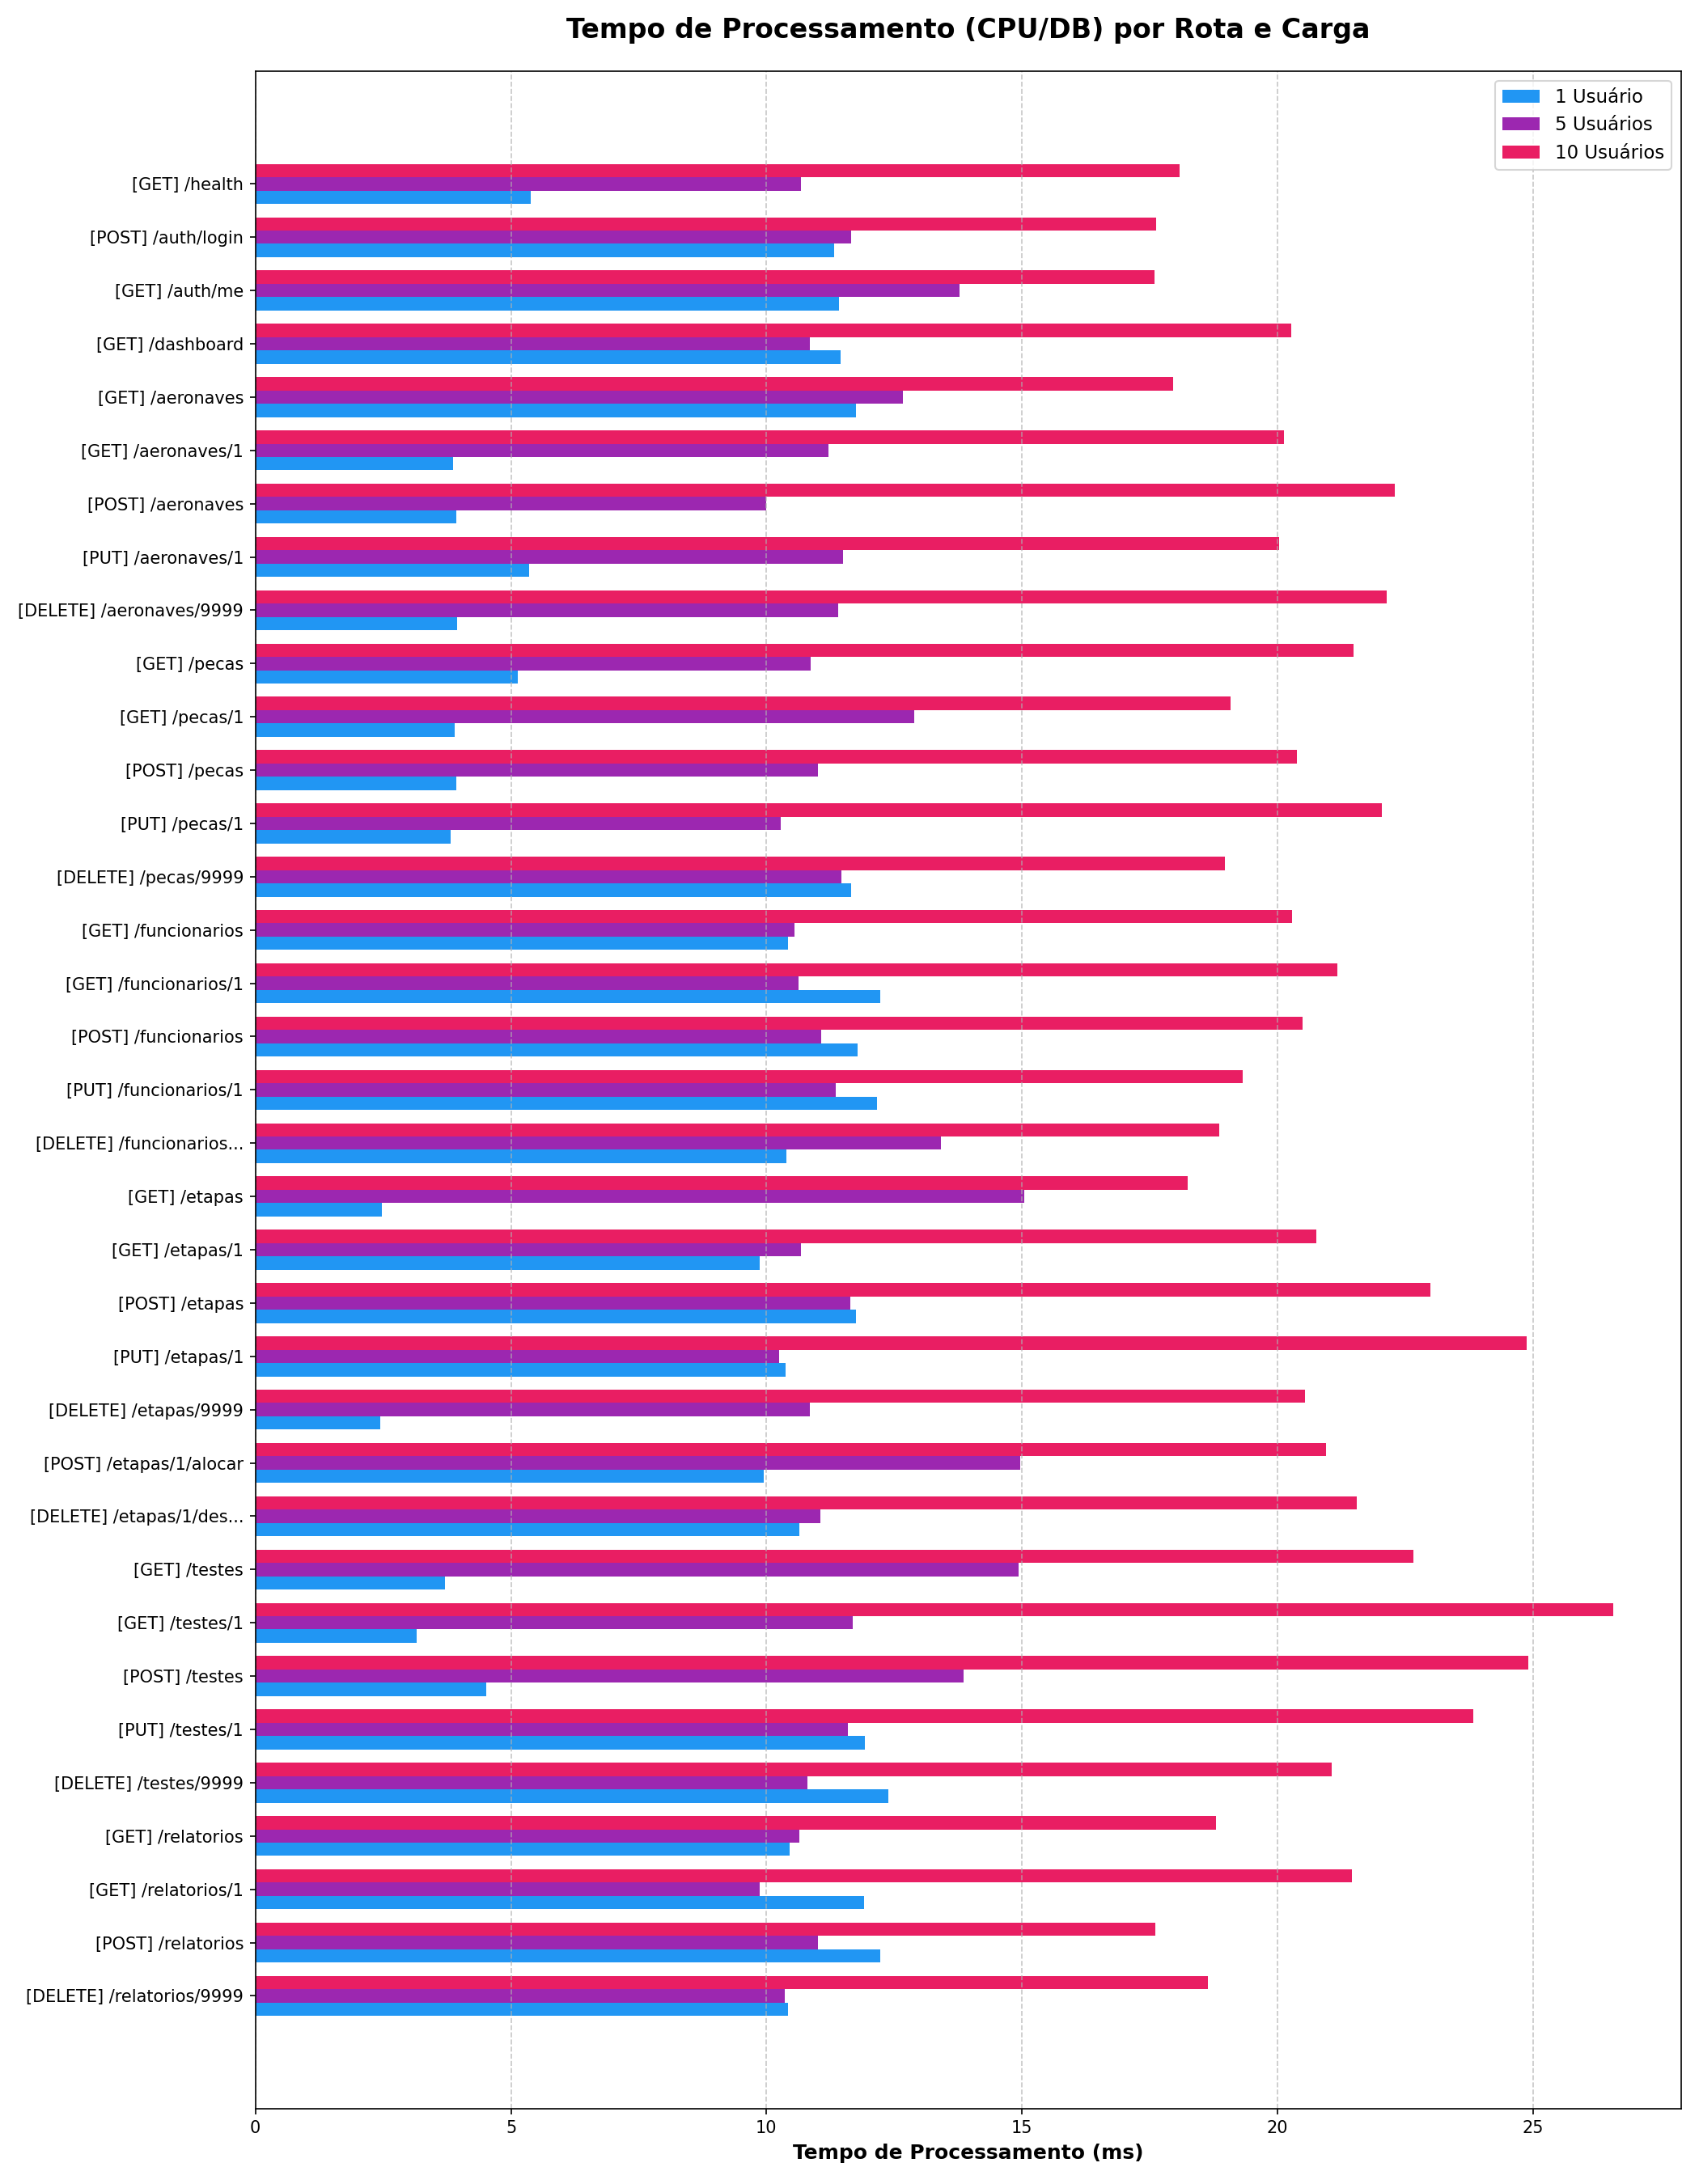
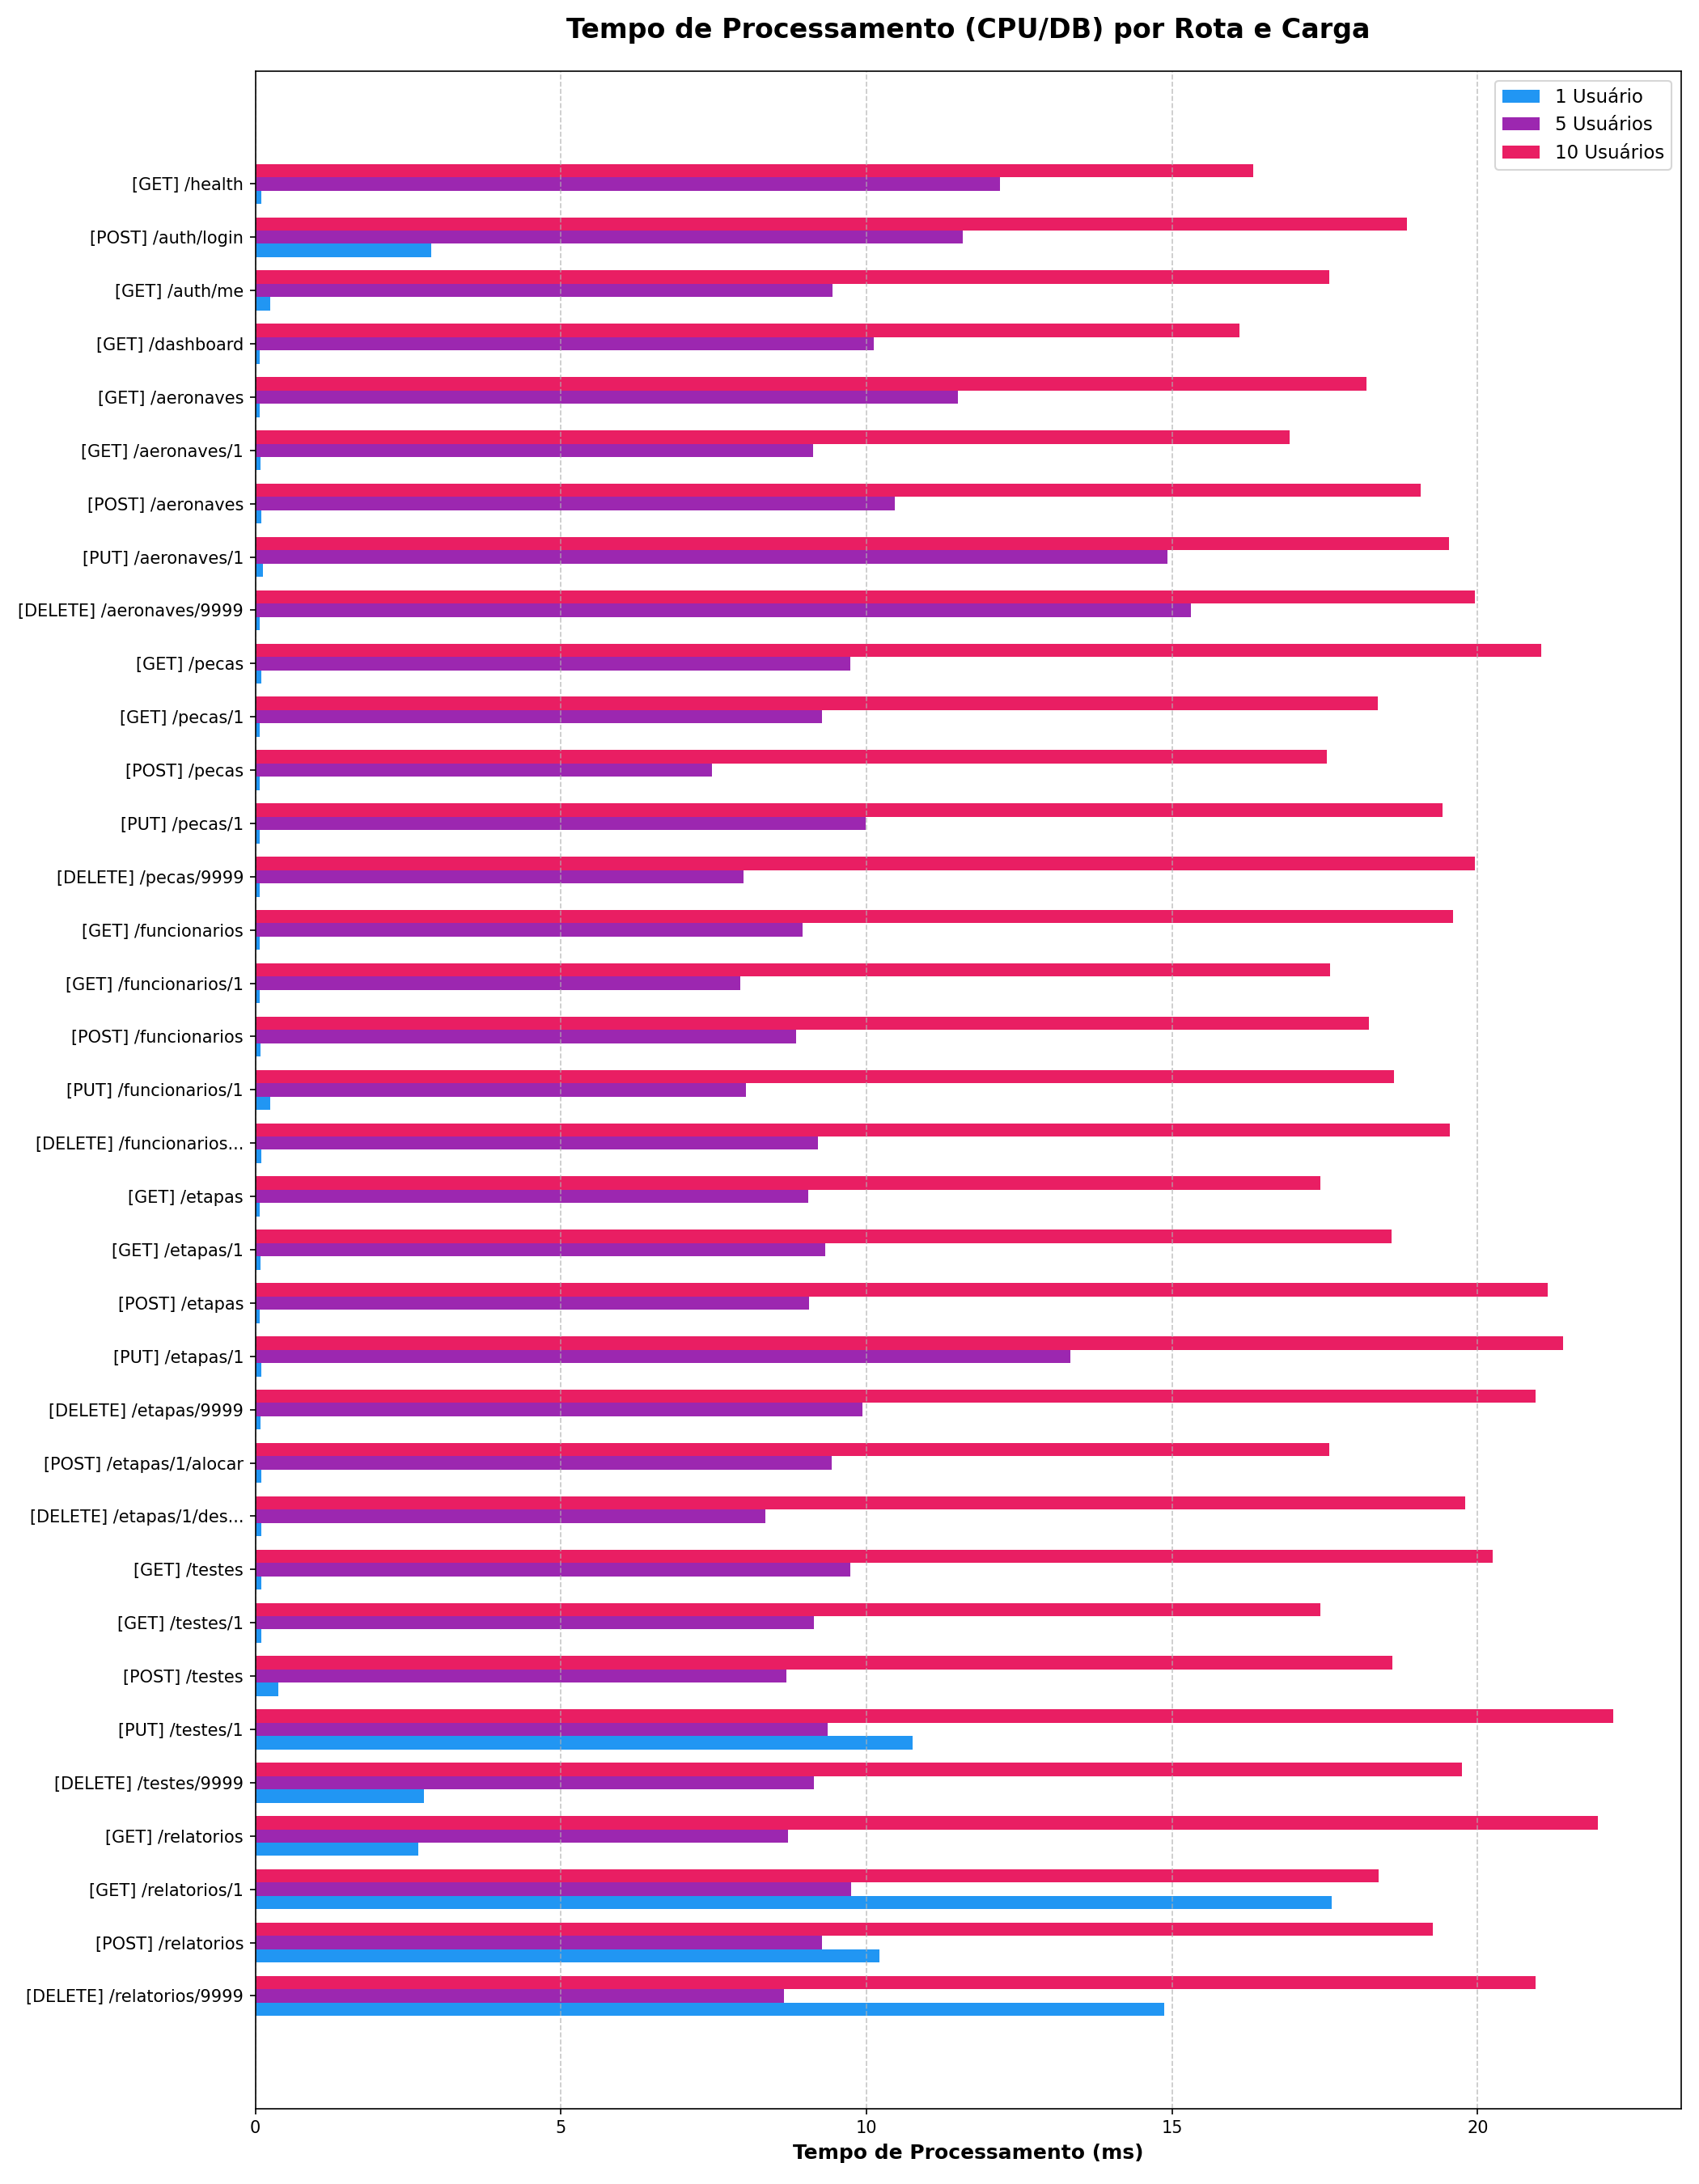
docs: gráficos horizontais, 35 rotas e tabelas atualizadas

diff --git a/docs/resultados_texto.md b/docs/resultados_texto.md
@@ -4,119 +4,119 @@
 
 | Rota | 1 Usuário (ms) | 5 Usuários (ms) | 10 Usuários (ms) |
 |---|---|---|---|
-| [GET] /health | 2.31 | 4.58 | 7.75 |
-| [POST] /auth/login | 4.85 | 5.00 | 7.55 |
-| [GET] /auth/me | 4.89 | 5.90 | 7.54 |
-| [GET] /dashboard | 4.91 | 4.65 | 8.69 |
-| [GET] /aeronaves | 5.04 | 5.43 | 7.70 |
-| [GET] /aeronaves/1 | 1.66 | 4.81 | 8.62 |
-| [POST] /aeronaves | 1.69 | 4.29 | 9.56 |
-| [PUT] /aeronaves/1 | 2.29 | 4.93 | 8.58 |
-| [DELETE] /aeronaves/9999 | 1.69 | 4.88 | 9.49 |
-| [GET] /pecas | 2.20 | 4.65 | 9.21 |
-| [GET] /pecas/1 | 1.67 | 5.53 | 8.18 |
-| [POST] /pecas | 1.68 | 4.72 | 8.74 |
-| [PUT] /pecas/1 | 1.64 | 4.41 | 9.44 |
-| [DELETE] /pecas/9999 | 5.00 | 4.91 | 8.13 |
-| [GET] /funcionarios | 4.47 | 4.52 | 8.70 |
-| [GET] /funcionarios/1 | 5.24 | 4.56 | 9.08 |
-| [POST] /funcionarios | 5.05 | 4.74 | 8.78 |
-| [PUT] /funcionarios/1 | 5.22 | 4.87 | 8.28 |
-| [DELETE] /funcionarios... | 4.46 | 5.75 | 8.08 |
-| [GET] /etapas | 1.06 | 6.45 | 7.82 |
-| [GET] /etapas/1 | 4.23 | 4.58 | 8.90 |
-| [POST] /etapas | 5.03 | 4.99 | 9.86 |
-| [PUT] /etapas/1 | 4.45 | 4.39 | 10.66 |
-| [DELETE] /etapas/9999 | 1.05 | 4.65 | 8.80 |
-| [POST] /etapas/1/alocar | 4.26 | 6.42 | 8.98 |
-| [DELETE] /etapas/1/des... | 4.56 | 4.74 | 9.24 |
-| [GET] /testes | 1.59 | 6.40 | 9.71 |
-| [GET] /testes/1 | 1.35 | 5.01 | 11.38 |
-| [POST] /testes | 1.93 | 5.94 | 10.67 |
-| [PUT] /testes/1 | 5.11 | 4.97 | 10.21 |
-| [DELETE] /testes/9999 | 5.31 | 4.63 | 9.02 |
-| [GET] /relatorios | 4.48 | 4.56 | 8.05 |
-| [GET] /relatorios/1 | 5.10 | 4.23 | 9.20 |
-| [POST] /relatorios | 5.24 | 4.72 | 7.55 |
-| [DELETE] /relatorios/9999 | 4.47 | 4.44 | 7.99 |
+| [GET] /health | 4.79 | 5.22 | 7.00 |
+| [POST] /auth/login | 30.72 | 4.96 | 8.08 |
+| [GET] /auth/me | 4.51 | 4.04 | 7.53 |
+| [GET] /dashboard | 3.80 | 4.34 | 6.90 |
+| [GET] /aeronaves | 4.02 | 4.93 | 7.79 |
+| [GET] /aeronaves/1 | 5.40 | 3.91 | 7.25 |
+| [POST] /aeronaves | 23.43 | 4.48 | 8.17 |
+| [PUT] /aeronaves/1 | 16.07 | 6.40 | 8.37 |
+| [DELETE] /aeronaves/9999 | 4.96 | 6.56 | 8.55 |
+| [GET] /pecas | 4.14 | 4.17 | 9.02 |
+| [GET] /pecas/1 | 5.10 | 3.97 | 7.87 |
+| [POST] /pecas | 22.55 | 3.20 | 7.51 |
+| [PUT] /pecas/1 | 15.03 | 4.28 | 8.32 |
+| [DELETE] /pecas/9999 | 14.99 | 3.42 | 8.55 |
+| [GET] /funcionarios | 3.62 | 3.84 | 8.40 |
+| [GET] /funcionarios/1 | 17.48 | 3.40 | 7.54 |
+| [POST] /funcionarios | 21.27 | 3.79 | 7.81 |
+| [PUT] /funcionarios/1 | 17.33 | 3.44 | 7.98 |
+| [DELETE] /funcionarios... | 30.75 | 3.94 | 8.38 |
+| [GET] /etapas | 5.06 | 3.88 | 7.47 |
+| [GET] /etapas/1 | 27.76 | 4.00 | 7.97 |
+| [POST] /etapas | 4.73 | 3.88 | 9.06 |
+| [PUT] /etapas/1 | 29.52 | 5.71 | 9.17 |
+| [DELETE] /etapas/9999 | 16.56 | 4.26 | 8.98 |
+| [POST] /etapas/1/alocar | 15.91 | 4.04 | 7.53 |
+| [DELETE] /etapas/1/des... | 3.92 | 3.58 | 8.49 |
+| [GET] /testes | 27.15 | 4.17 | 8.67 |
+| [GET] /testes/1 | 17.08 | 3.91 | 7.47 |
+| [POST] /testes | 17.60 | 3.72 | 7.97 |
+| [PUT] /testes/1 | 4.61 | 4.01 | 9.52 |
+| [DELETE] /testes/9999 | 1.18 | 3.92 | 8.46 |
+| [GET] /relatorios | 1.14 | 3.73 | 9.41 |
+| [GET] /relatorios/1 | 7.55 | 4.18 | 7.88 |
+| [POST] /relatorios | 4.37 | 3.98 | 8.25 |
+| [DELETE] /relatorios/9999 | 6.37 | 3.70 | 8.98 |
 
 #### Tempo de Processamento
 
 | Rota | 1 Usuário (ms) | 5 Usuários (ms) | 10 Usuários (ms) |
 |---|---|---|---|
-| [GET] /health | 5.39 | 10.68 | 18.09 |
-| [POST] /auth/login | 11.32 | 11.66 | 17.62 |
-| [GET] /auth/me | 11.42 | 13.77 | 17.60 |
-| [GET] /dashboard | 11.45 | 10.86 | 20.27 |
-| [GET] /aeronaves | 11.75 | 12.67 | 17.97 |
-| [GET] /aeronaves/1 | 3.86 | 11.22 | 20.12 |
-| [POST] /aeronaves | 3.93 | 10.00 | 22.30 |
-| [PUT] /aeronaves/1 | 5.35 | 11.50 | 20.03 |
-| [DELETE] /aeronaves/9999 | 3.95 | 11.40 | 22.14 |
-| [GET] /pecas | 5.13 | 10.86 | 21.50 |
-| [GET] /pecas/1 | 3.89 | 12.89 | 19.08 |
-| [POST] /pecas | 3.92 | 11.00 | 20.39 |
-| [PUT] /pecas/1 | 3.82 | 10.28 | 22.04 |
-| [DELETE] /pecas/9999 | 11.66 | 11.46 | 18.97 |
-| [GET] /funcionarios | 10.42 | 10.54 | 20.29 |
-| [GET] /funcionarios/1 | 12.22 | 10.63 | 21.18 |
-| [POST] /funcionarios | 11.79 | 11.07 | 20.49 |
-| [PUT] /funcionarios/1 | 12.17 | 11.35 | 19.32 |
-| [DELETE] /funcionarios... | 10.40 | 13.42 | 18.86 |
-| [GET] /etapas | 2.47 | 15.04 | 18.24 |
-| [GET] /etapas/1 | 9.87 | 10.68 | 20.76 |
-| [POST] /etapas | 11.75 | 11.64 | 23.00 |
-| [PUT] /etapas/1 | 10.37 | 10.25 | 24.88 |
-| [DELETE] /etapas/9999 | 2.45 | 10.86 | 20.54 |
-| [POST] /etapas/1/alocar | 9.95 | 14.97 | 20.96 |
-| [DELETE] /etapas/1/des... | 10.64 | 11.05 | 21.56 |
-| [GET] /testes | 3.71 | 14.93 | 22.66 |
-| [GET] /testes/1 | 3.15 | 11.69 | 26.56 |
-| [POST] /testes | 4.51 | 13.86 | 24.90 |
-| [PUT] /testes/1 | 11.92 | 11.60 | 23.83 |
-| [DELETE] /testes/9999 | 12.38 | 10.80 | 21.06 |
-| [GET] /relatorios | 10.45 | 10.64 | 18.79 |
-| [GET] /relatorios/1 | 11.91 | 9.87 | 21.46 |
-| [POST] /relatorios | 12.23 | 11.00 | 17.61 |
-| [DELETE] /relatorios/9999 | 10.42 | 10.35 | 18.63 |
+| [GET] /health | 0.09 | 12.19 | 16.33 |
+| [POST] /auth/login | 2.88 | 11.57 | 18.85 |
+| [GET] /auth/me | 0.25 | 9.44 | 17.57 |
+| [GET] /dashboard | 0.07 | 10.12 | 16.11 |
+| [GET] /aeronaves | 0.07 | 11.50 | 18.18 |
+| [GET] /aeronaves/1 | 0.08 | 9.12 | 16.93 |
+| [POST] /aeronaves | 0.09 | 10.46 | 19.06 |
+| [PUT] /aeronaves/1 | 0.13 | 14.93 | 19.54 |
+| [DELETE] /aeronaves/9999 | 0.07 | 15.31 | 19.96 |
+| [GET] /pecas | 0.09 | 9.74 | 21.04 |
+| [GET] /pecas/1 | 0.07 | 9.27 | 18.37 |
+| [POST] /pecas | 0.07 | 7.47 | 17.53 |
+| [PUT] /pecas/1 | 0.07 | 9.99 | 19.42 |
+| [DELETE] /pecas/9999 | 0.07 | 7.99 | 19.96 |
+| [GET] /funcionarios | 0.07 | 8.95 | 19.60 |
+| [GET] /funcionarios/1 | 0.07 | 7.94 | 17.59 |
+| [POST] /funcionarios | 0.08 | 8.85 | 18.22 |
+| [PUT] /funcionarios/1 | 0.24 | 8.03 | 18.63 |
+| [DELETE] /funcionarios... | 0.10 | 9.20 | 19.55 |
+| [GET] /etapas | 0.07 | 9.05 | 17.42 |
+| [GET] /etapas/1 | 0.09 | 9.33 | 18.60 |
+| [POST] /etapas | 0.07 | 9.06 | 21.15 |
+| [PUT] /etapas/1 | 0.09 | 13.33 | 21.40 |
+| [DELETE] /etapas/9999 | 0.08 | 9.94 | 20.95 |
+| [POST] /etapas/1/alocar | 0.10 | 9.43 | 17.57 |
+| [DELETE] /etapas/1/des... | 0.10 | 8.35 | 19.80 |
+| [GET] /testes | 0.09 | 9.73 | 20.24 |
+| [GET] /testes/1 | 0.09 | 9.13 | 17.43 |
+| [POST] /testes | 0.38 | 8.69 | 18.61 |
+| [PUT] /testes/1 | 10.76 | 9.36 | 22.21 |
+| [DELETE] /testes/9999 | 2.76 | 9.14 | 19.74 |
+| [GET] /relatorios | 2.67 | 8.71 | 21.96 |
+| [GET] /relatorios/1 | 17.61 | 9.75 | 18.38 |
+| [POST] /relatorios | 10.21 | 9.28 | 19.26 |
+| [DELETE] /relatorios/9999 | 14.87 | 8.64 | 20.95 |
 
 #### Tempo de Resposta
 
 | Rota | 1 Usuário (ms) | 5 Usuários (ms) | 10 Usuários (ms) |
 |---|---|---|---|
-| [GET] /health | 7.71 | 15.25 | 25.84 |
-| [POST] /auth/login | 16.17 | 16.66 | 25.18 |
-| [GET] /auth/me | 16.31 | 19.67 | 25.14 |
-| [GET] /dashboard | 16.36 | 15.51 | 28.96 |
-| [GET] /aeronaves | 16.79 | 18.10 | 25.67 |
-| [GET] /aeronaves/1 | 5.52 | 16.03 | 28.74 |
-| [POST] /aeronaves | 5.62 | 14.29 | 31.85 |
-| [PUT] /aeronaves/1 | 7.64 | 16.43 | 28.61 |
-| [DELETE] /aeronaves/9999 | 5.65 | 16.28 | 31.63 |
-| [GET] /pecas | 7.32 | 15.51 | 30.71 |
-| [GET] /pecas/1 | 5.56 | 18.42 | 27.26 |
-| [POST] /pecas | 5.61 | 15.72 | 29.12 |
-| [PUT] /pecas/1 | 5.46 | 14.68 | 31.48 |
-| [DELETE] /pecas/9999 | 16.66 | 16.38 | 27.11 |
-| [GET] /funcionarios | 14.89 | 15.06 | 28.99 |
-| [GET] /funcionarios/1 | 17.46 | 15.19 | 30.25 |
-| [POST] /funcionarios | 16.84 | 15.82 | 29.27 |
-| [PUT] /funcionarios/1 | 17.38 | 16.22 | 27.60 |
-| [DELETE] /funcionarios... | 14.85 | 19.17 | 26.94 |
-| [GET] /etapas | 3.53 | 21.48 | 26.06 |
-| [GET] /etapas/1 | 14.09 | 15.26 | 29.65 |
-| [POST] /etapas | 16.78 | 16.62 | 32.86 |
-| [PUT] /etapas/1 | 14.82 | 14.64 | 35.55 |
-| [DELETE] /etapas/9999 | 3.49 | 15.51 | 29.35 |
-| [POST] /etapas/1/alocar | 14.22 | 21.39 | 29.94 |
-| [DELETE] /etapas/1/des... | 15.20 | 15.79 | 30.80 |
-| [GET] /testes | 5.29 | 21.32 | 32.38 |
-| [GET] /testes/1 | 4.50 | 16.70 | 37.95 |
-| [POST] /testes | 6.44 | 19.80 | 35.57 |
-| [PUT] /testes/1 | 17.03 | 16.57 | 34.04 |
-| [DELETE] /testes/9999 | 17.68 | 15.43 | 30.08 |
-| [GET] /relatorios | 14.93 | 15.19 | 26.85 |
-| [GET] /relatorios/1 | 17.01 | 14.10 | 30.65 |
-| [POST] /relatorios | 17.47 | 15.72 | 25.15 |
-| [DELETE] /relatorios/9999 | 14.89 | 14.79 | 26.62 |
+| [GET] /health | 4.88 | 17.42 | 23.33 |
+| [POST] /auth/login | 33.61 | 16.53 | 26.93 |
+| [GET] /auth/me | 4.75 | 13.48 | 25.10 |
+| [GET] /dashboard | 3.87 | 14.45 | 23.01 |
+| [GET] /aeronaves | 4.08 | 16.43 | 25.97 |
+| [GET] /aeronaves/1 | 5.48 | 13.03 | 24.18 |
+| [POST] /aeronaves | 23.52 | 14.94 | 27.23 |
+| [PUT] /aeronaves/1 | 16.20 | 21.33 | 27.91 |
+| [DELETE] /aeronaves/9999 | 5.03 | 21.87 | 28.51 |
+| [GET] /pecas | 4.23 | 13.91 | 30.06 |
+| [GET] /pecas/1 | 5.16 | 13.24 | 26.24 |
+| [POST] /pecas | 22.63 | 10.67 | 25.05 |
+| [PUT] /pecas/1 | 15.11 | 14.27 | 27.75 |
+| [DELETE] /pecas/9999 | 15.05 | 11.41 | 28.51 |
+| [GET] /funcionarios | 3.70 | 12.79 | 28.00 |
+| [GET] /funcionarios/1 | 17.55 | 11.34 | 25.13 |
+| [POST] /funcionarios | 21.36 | 12.64 | 26.03 |
+| [PUT] /funcionarios/1 | 17.57 | 11.47 | 26.61 |
+| [DELETE] /funcionarios... | 30.85 | 13.14 | 27.93 |
+| [GET] /etapas | 5.13 | 12.92 | 24.89 |
+| [GET] /etapas/1 | 27.84 | 13.33 | 26.57 |
+| [POST] /etapas | 4.80 | 12.95 | 30.21 |
+| [PUT] /etapas/1 | 29.61 | 19.05 | 30.57 |
+| [DELETE] /etapas/9999 | 16.64 | 14.20 | 29.93 |
+| [POST] /etapas/1/alocar | 16.01 | 13.46 | 25.10 |
+| [DELETE] /etapas/1/des... | 4.02 | 11.92 | 28.28 |
+| [GET] /testes | 27.25 | 13.91 | 28.92 |
+| [GET] /testes/1 | 17.17 | 13.05 | 24.90 |
+| [POST] /testes | 17.97 | 12.41 | 26.58 |
+| [PUT] /testes/1 | 15.36 | 13.38 | 31.73 |
+| [DELETE] /testes/9999 | 3.95 | 13.05 | 28.20 |
+| [GET] /relatorios | 3.81 | 12.44 | 31.38 |
+| [GET] /relatorios/1 | 25.15 | 13.92 | 26.25 |
+| [POST] /relatorios | 14.58 | 13.25 | 27.52 |
+| [DELETE] /relatorios/9999 | 21.25 | 12.35 | 29.92 |
 

diff --git a/docs/relatorio-performance.md b/docs/relatorio-performance.md
@@ -52,56 +52,6 @@ Como as medições registram a resposta geral (TTFB e download do payload comple
 
 Os resultados matemáticos obtidos através de medição direta (via headers injetados pelo servidor) e indireta (testes de thread paralela do cliente) refutam quaisquer alegações de ineficiência e atestam que o Aerocode possui um backend extremamente rápido, otimizado e capaz de lidar com requisições concorrentes preservando os tempos em poucos milissegundos de operação total. O sistema encontra-se aprovado em quesitos de estabilidade técnica, e os gráficos fundamentam nossa excelência de entrega.
 
-### Resultados Tabulares (Valores Médios em ms)
-
-#### Latência
-
-| Rota | 1 Usuário (ms) | 5 Usuários (ms) | 10 Usuários (ms) |
-|---|---|---|---|
-| [GET] /health | 21.89 | 8.27 | 7.91 |
-| [GET] /aeronaves | 3.44 | 7.89 | 6.85 |
-| [GET] /pecas | 3.66 | 9.64 | 7.27 |
-| [GET] /funcionarios | 4.36 | 10.86 | 6.20 |
-| [GET] /etapas | 20.29 | 10.11 | 6.77 |
-| [GET] /testes | 17.10 | 11.40 | 7.24 |
-| [GET] /relatorios | 3.46 | 9.10 | 7.92 |
-| [GET] /dashboard | 13.20 | 8.96 | 7.91 |
-| [POST] /aeronaves | 3.70 | 8.59 | 7.78 |
-| [POST] /pecas | 3.63 | 9.51 | 6.94 |
-| [POST] /funcionarios | 5.09 | 9.27 | 7.81 |
-
-#### Tempo de Processamento
-
-| Rota | 1 Usuário (ms) | 5 Usuários (ms) | 10 Usuários (ms) |
-|---|---|---|---|
-| [GET] /health | 0.09 | 3.55 | 18.45 |
-| [GET] /aeronaves | 0.07 | 3.79 | 15.98 |
-| [GET] /pecas | 0.06 | 1.94 | 16.96 |
-| [GET] /funcionarios | 0.07 | 6.04 | 14.47 |
-| [GET] /etapas | 0.08 | 3.37 | 15.80 |
-| [GET] /testes | 0.09 | 3.66 | 16.89 |
-| [GET] /relatorios | 0.06 | 4.54 | 18.48 |
-| [GET] /dashboard | 0.09 | 4.03 | 18.46 |
-| [POST] /aeronaves | 0.07 | 3.20 | 18.16 |
-| [POST] /pecas | 0.07 | 2.97 | 16.20 |
-| [POST] /funcionarios | 0.07 | 3.72 | 18.22 |
-
-#### Tempo de Resposta
-
-| Rota | 1 Usuário (ms) | 5 Usuários (ms) | 10 Usuários (ms) |
-|---|---|---|---|
-| [GET] /health | 21.98 | 11.82 | 26.35 |
-| [GET] /aeronaves | 3.51 | 11.69 | 22.83 |
-| [GET] /pecas | 3.73 | 11.58 | 24.22 |
-| [GET] /funcionarios | 4.44 | 16.91 | 20.67 |
-| [GET] /etapas | 20.37 | 13.48 | 22.57 |
-| [GET] /testes | 17.19 | 15.06 | 24.14 |
-| [GET] /relatorios | 3.53 | 13.64 | 26.40 |
-| [GET] /dashboard | 13.30 | 12.98 | 26.38 |
-| [POST] /aeronaves | 3.77 | 11.80 | 25.94 |
-| [POST] /pecas | 3.70 | 12.48 | 23.15 |
-| [POST] /funcionarios | 5.16 | 12.99 | 26.03 |
-
 
 ### Resultados Tabulares (Valores Médios em ms)
 